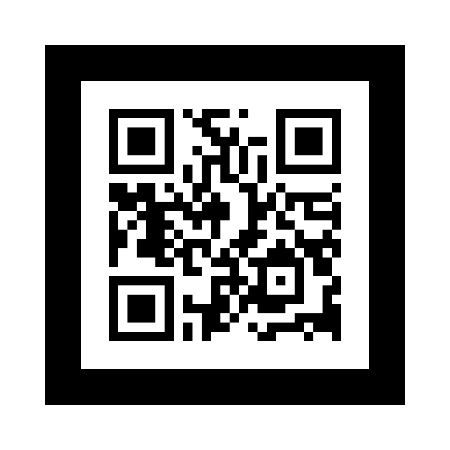
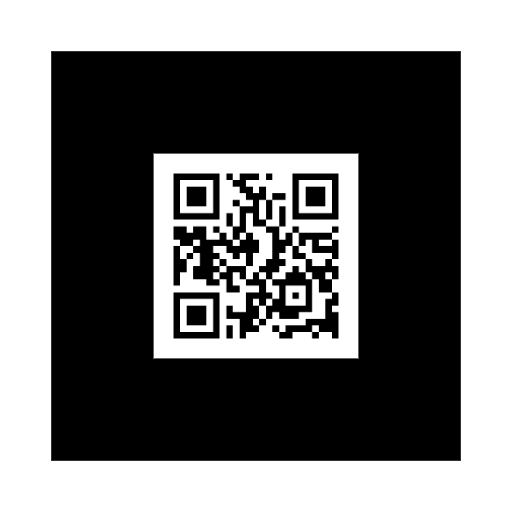
update: QRコード修正

diff --git a/index.html b/index.html
@@ -77,7 +77,6 @@
             type="pattern" 
             url="./marker.patt" 
             id="marker"
-            patternRatio="0.9"
         >
             <a-entity
                 play-video="video: #myvideo; canstop: false;"
